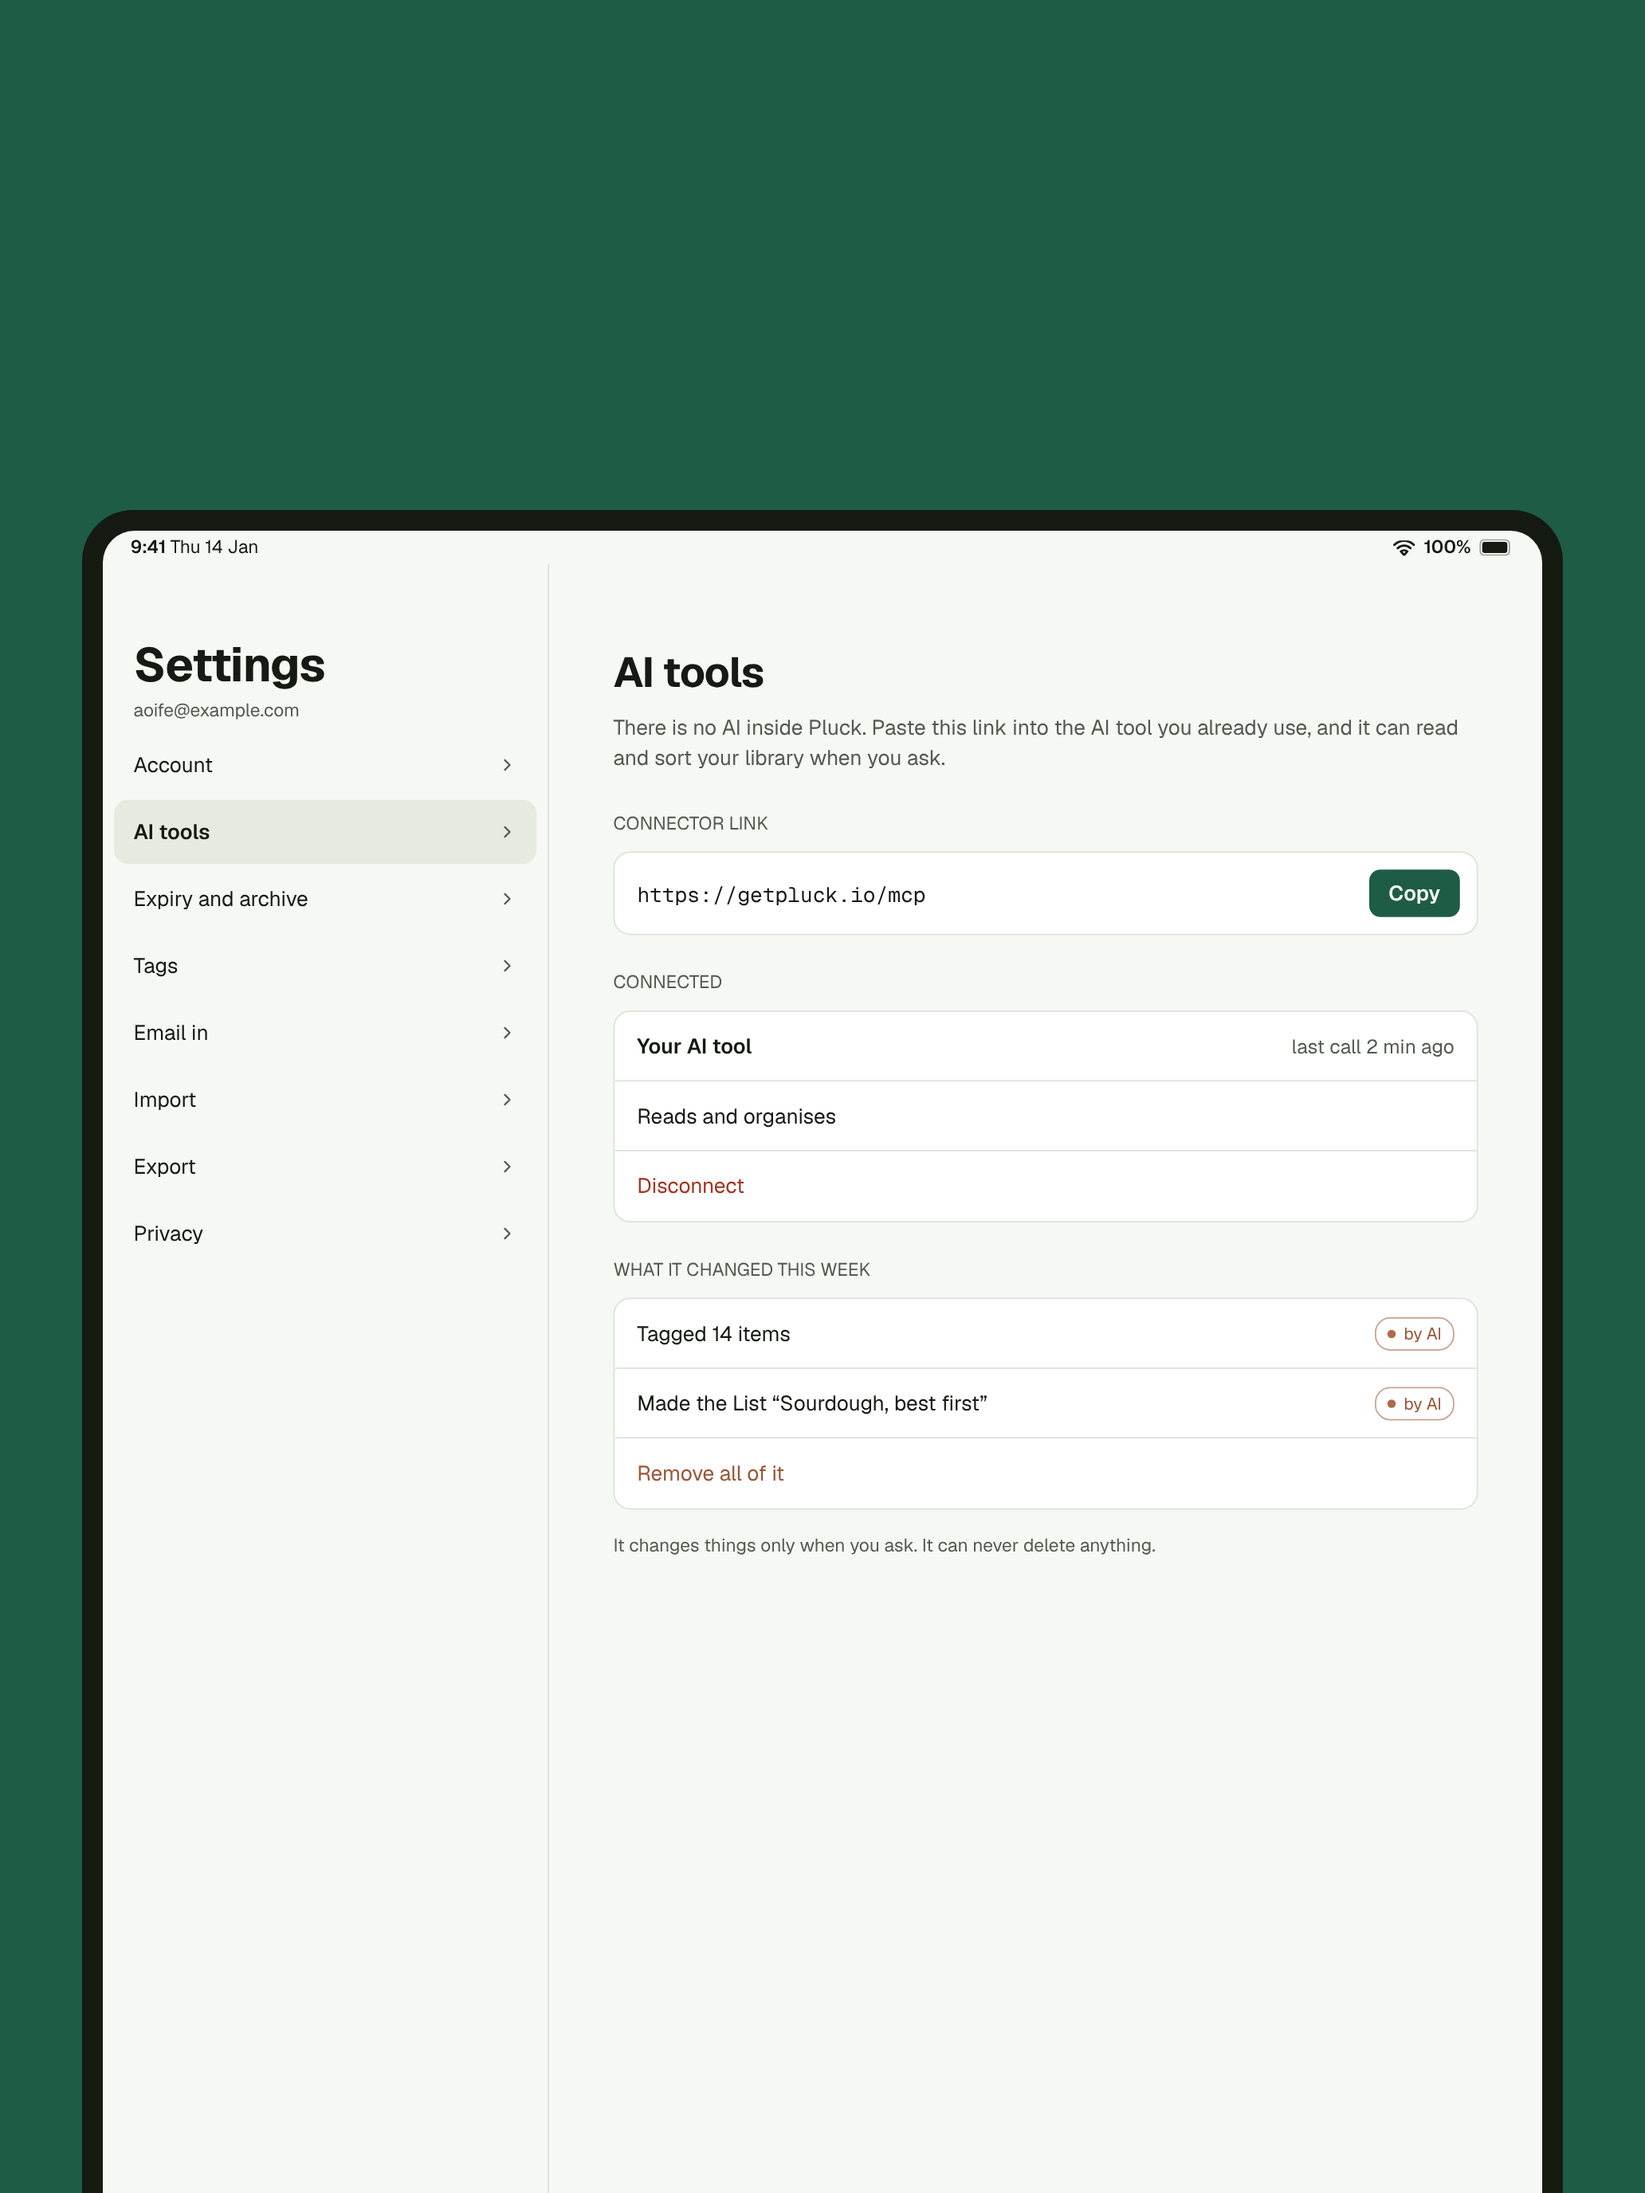
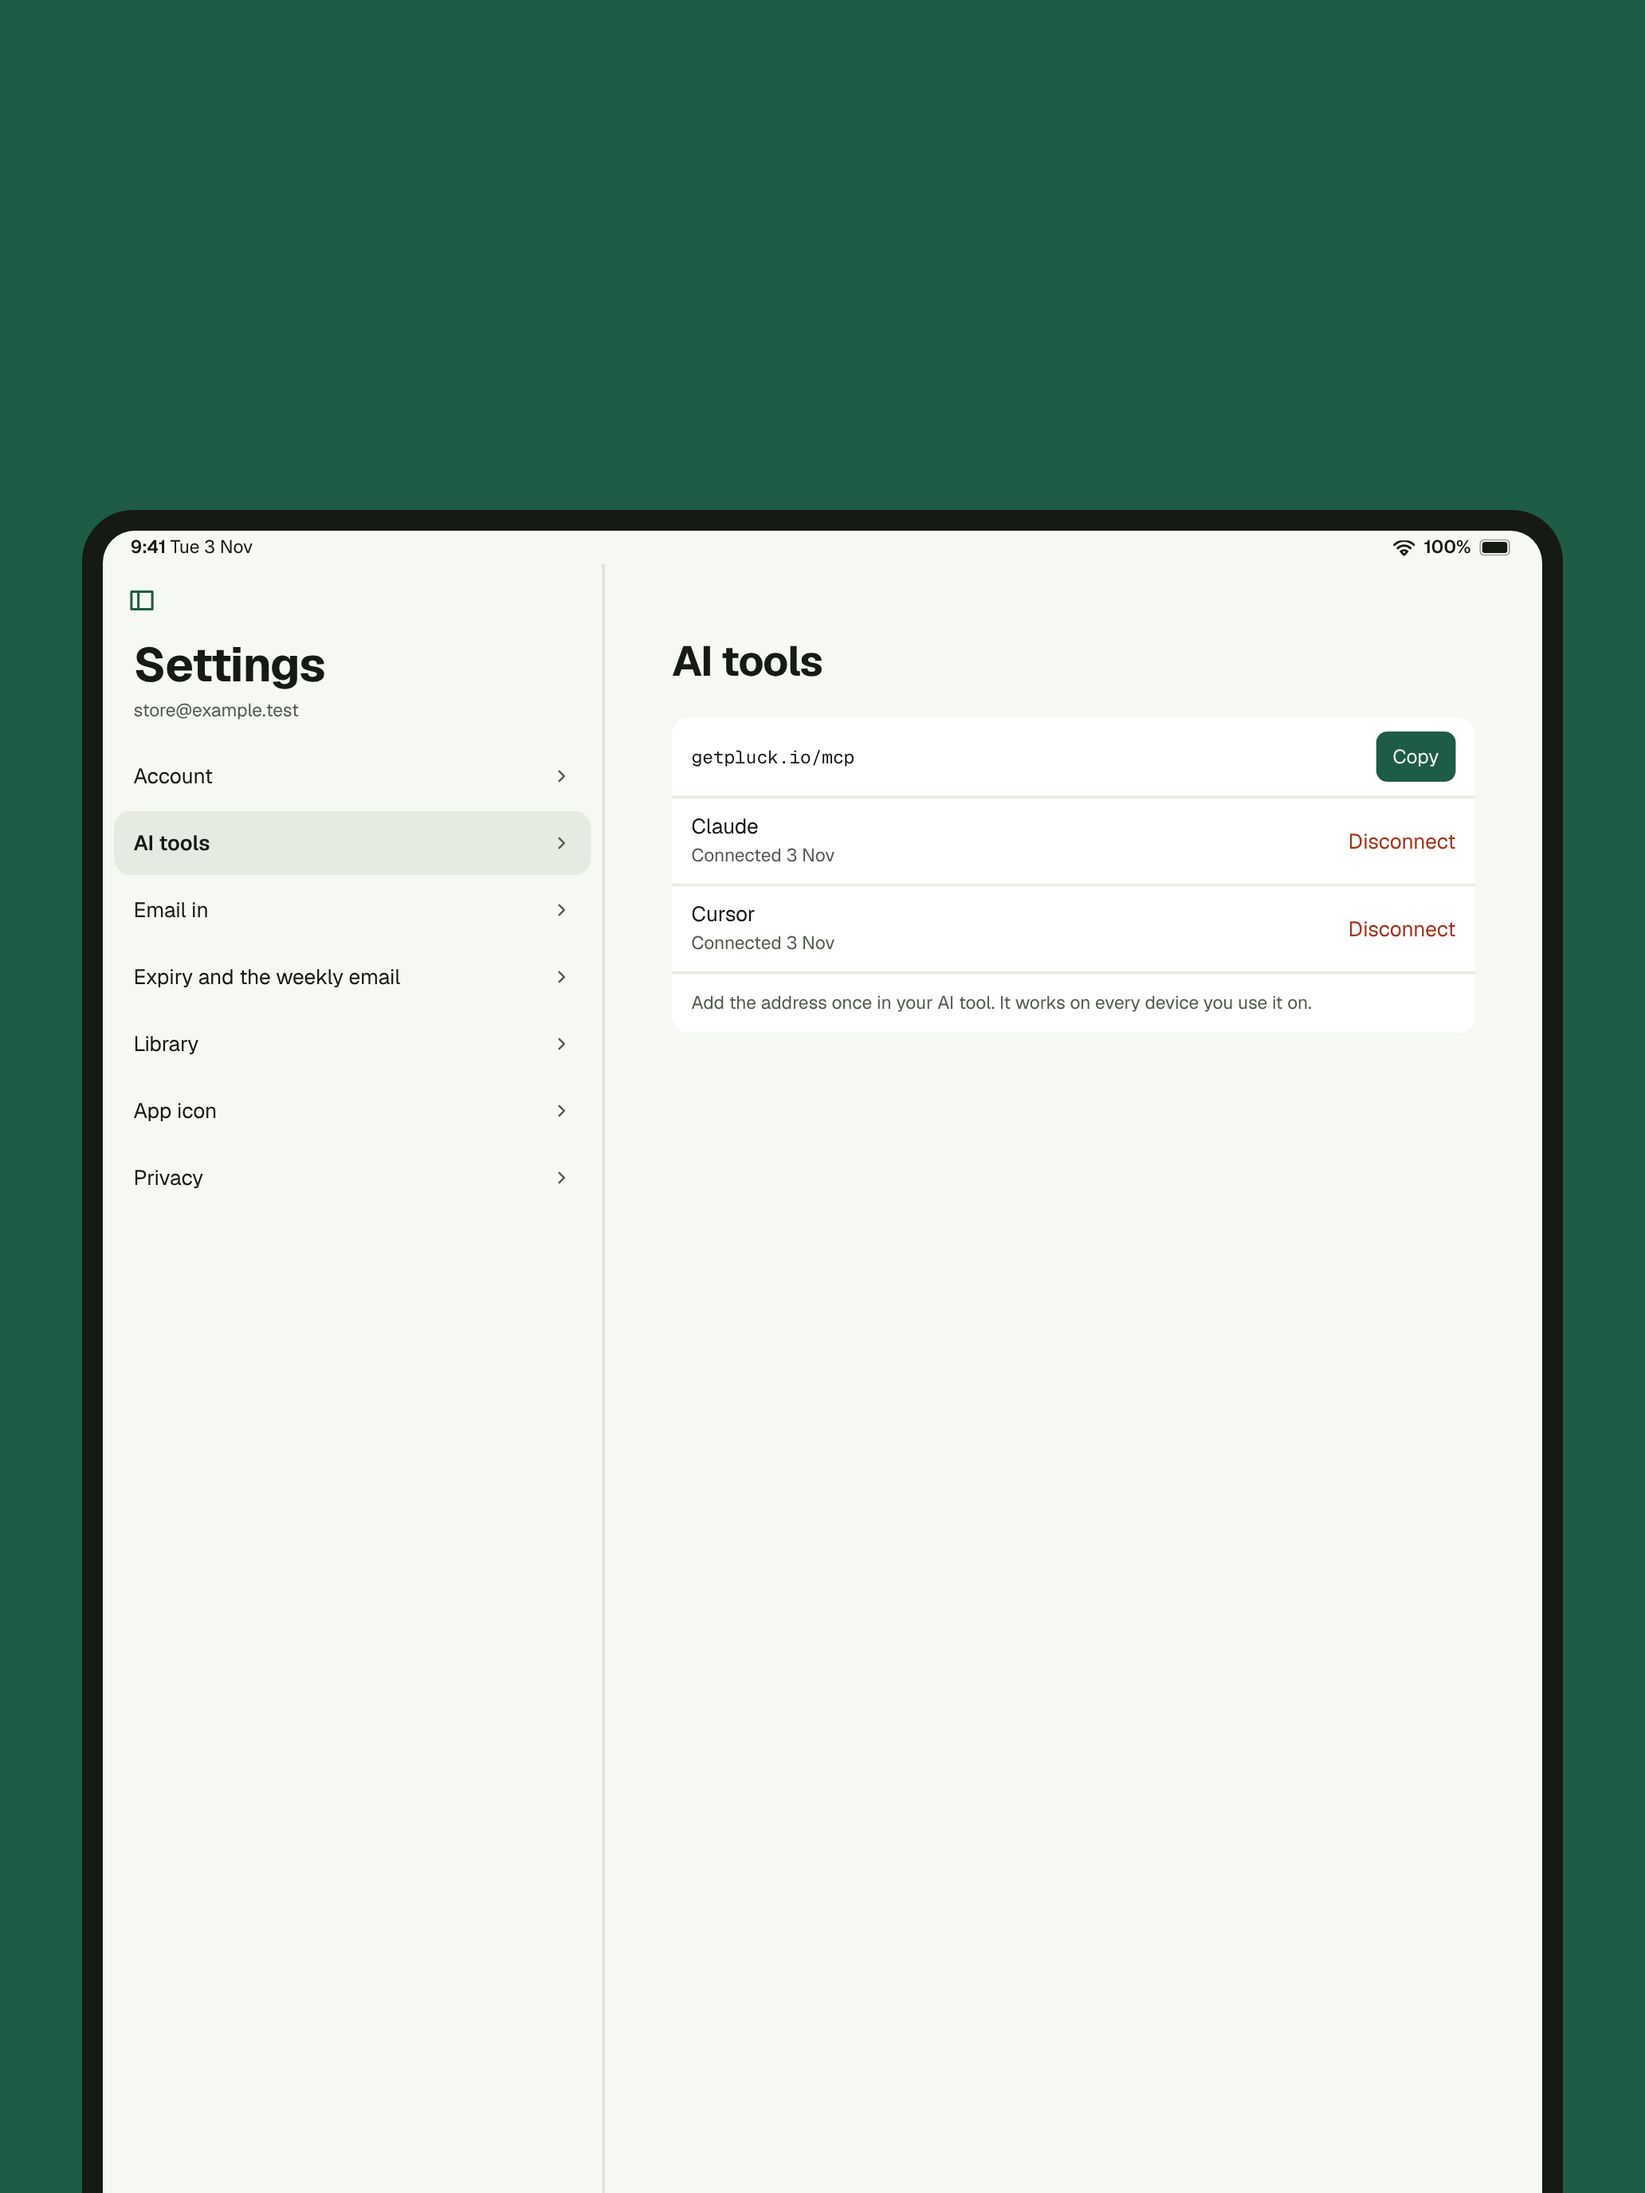
New frames 6 and 7 from Claude Design, in English
iPhone 6 is Settings, AI tools ("There's no AI in here."), iPhone 7 is
the Siri card ("Siri can pluck it too."). iPad 6 is AI tools in the split
view, iPad 7 the hold-Command shortcuts ("A key for every move."). Every
screen shows the app as it is.

They're English only: the screens show English UI, so the other
languages keep five frames until the app is captured in each. The art-only
exports are in screenshots/art-only and ipad/art-only for that. The store
preview now shows all seven English iPad frames, and audit.json lists the
polish notes on the new four.

Claude-Session: https://claude.ai/code/session_01Chg7BBfwaoFjYv8SEWTjMY

diff --git a/apps/web/app/dev/store/data.ts b/apps/web/app/dev/store/data.ts
@@ -51,9 +51,9 @@ export function load(locale: Locale): Store {
   const listing = (JSON.parse(readFileSync(join(root, `${locale}.json`), "utf8")) as { appStore: Listing }).appStore;
   const strings = join(root, `ipad/strings.${locale}.json`);
   const ipadCaptions = existsSync(strings) ? (JSON.parse(readFileSync(strings, "utf8")) as { ipadScreenshots: Store["ipadCaptions"] }).ipadScreenshots : [];
-  // English: the 6.9 in iPhone set and frames 1 to 5 of the iPad set (6 and 7 are drawn, and not uploaded).
+  // English: the 6.9 in iPhone set and the iPad with-text set, all seven frames.
   const iphone = locale === "en" ? files(root, "screenshots/6.9in") : files(root, `screenshots/${locale}`);
-  const ipad = locale === "en" ? files(root, "ipad/with-text", 5) : files(root, `ipad/${locale}`);
+  const ipad = locale === "en" ? files(root, "ipad/with-text") : files(root, `ipad/${locale}`);
 
   const flags: Flag[] = [];
   const check = (field: Flag["field"], text: string, rules: [string, RegExp][]) => {

diff --git a/docs/store/app-store.md b/docs/store/app-store.md
@@ -18,7 +18,7 @@ Support URL https://getpluck.io/support, marketing URL https://getpluck.io, priv
 
 ## Screenshots
 
-`screenshots/6.9in` (1320 × 2868) and `screenshots/6.3in` (1206 × 2622), PNG with no alpha, in upload order. Drawn on the canvas as `AppStore1` to `AppStore5`, with an everyday sample library rather than developer reading. Frame 5 is dark mode. `AppStore6` and `7` came down on 4 November 2026: they showed Settings the app doesn't have (guideline 2.3.3). Their replacements are with Claude Design.
+`screenshots/6.9in` (1320 × 2868) and `screenshots/6.3in` (1206 × 2622), PNG with no alpha, in upload order. Drawn on the canvas as `AppStore1` to `AppStore5`, with an everyday sample library rather than developer reading. Frame 5 is dark mode. The first `AppStore6` and `7` came down on 4 November 2026: they showed Settings the app doesn't have (guideline 2.3.3). The new 6 (AI tools) and 7 (Siri) came from Claude Design as PNGs, with text and art only (`screenshots/art-only/`); there are no boards for them yet. They're English only until the app is captured in each language.
 
 Before launch, swap each drawn phone screen for a real Simulator capture of the same library (`scripts/demo-seed.mjs` with the sample Items in the table below), so the listing shows the app exactly as it ships.
 
